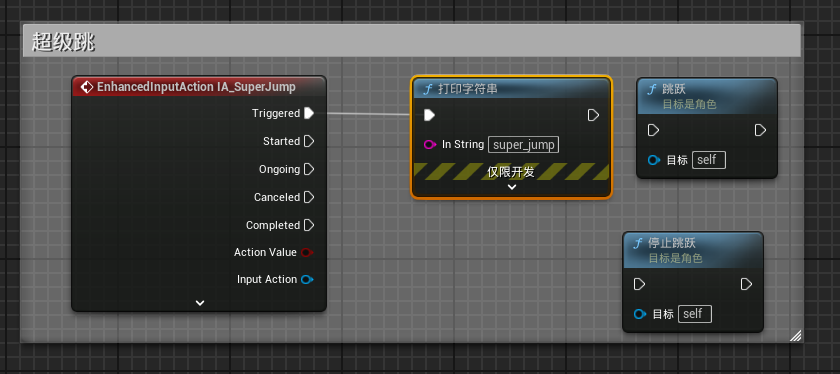
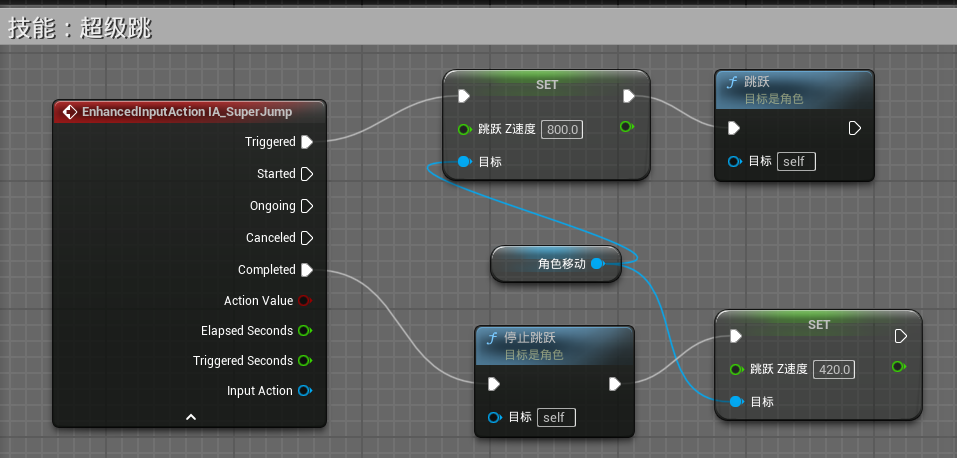
ddddaily

diff --git a/tt老师课程/1.入门篇.md b/tt老师课程/1.入门篇.md
@@ -219,3 +219,9 @@ RGB值超过1就会发光
 然后就可以给对应按键设置反馈了
 
 ![pic16](./pngs/pic16.png)
+
+教程中触发超级跳的按键是`space+shift`，但是我没有找到如何使用组合按键，暂时使用`ctrl`按键触发超级跳
+
+## 9.78.技能 - 超级跳冷却时间
+
+![pic17](./pngs/pic17.png)
